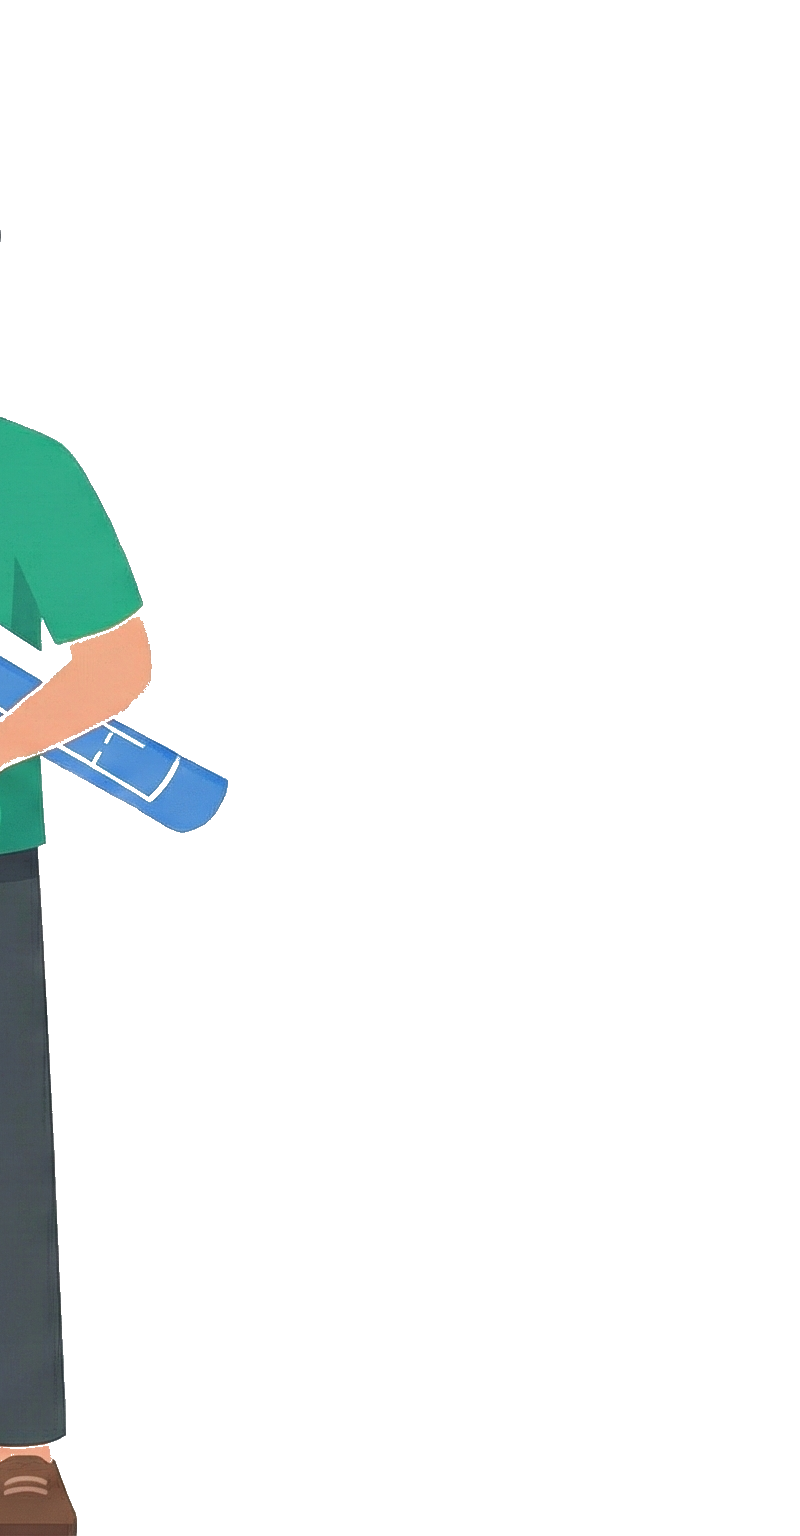
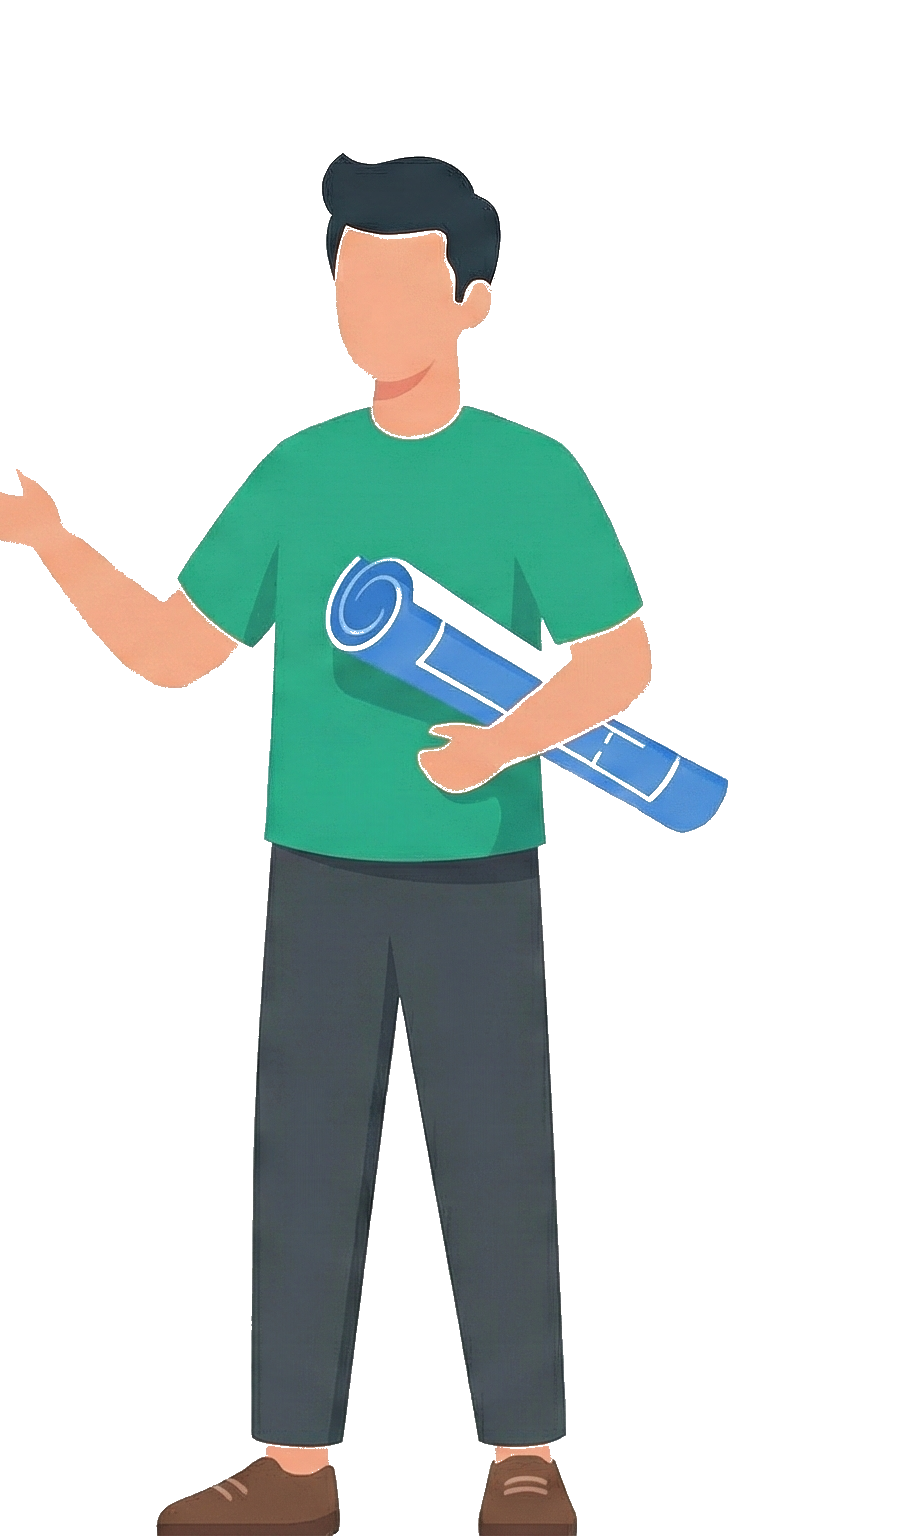
Adjust character positioning and cropping for better visual balance
Update CSS class for absolute positioning of the character illustration to translate-x-full, adjusting visual cropping and positioning for improved UI presentation.

Replit-Commit-Author: Agent
Replit-Commit-Session-Id: 4f9e2e5f-1f0c-4c0d-9a98-0d027a94a006
Replit-Commit-Checkpoint-Type: full_checkpoint
Replit-Commit-Event-Id: 4b3c658f-5f9b-47f8-a2b3-a311d137060d
Replit-Commit-Screenshot-Url: https://storage.googleapis.com/screenshot-production-us-central1/4a3504c9-7e0a-4e9d-b11c-3a18ea2f58ad/4f9e2e5f-1f0c-4c0d-9a98-0d027a94a006/8YbGoRA

diff --git a/src/app/page.tsx b/src/app/page.tsx
@@ -197,7 +197,7 @@ function HomeContent() {
           </div>
 
           {/* Character illustration - positioned absolutely to the right, only hand overlaps */}
-          <div className="hidden xl:block absolute right-0 top-8 translate-x-[88%]">
+          <div className="hidden xl:block absolute right-0 top-8 translate-x-full">
             <CharacterIllustration />
           </div>
         </div>
